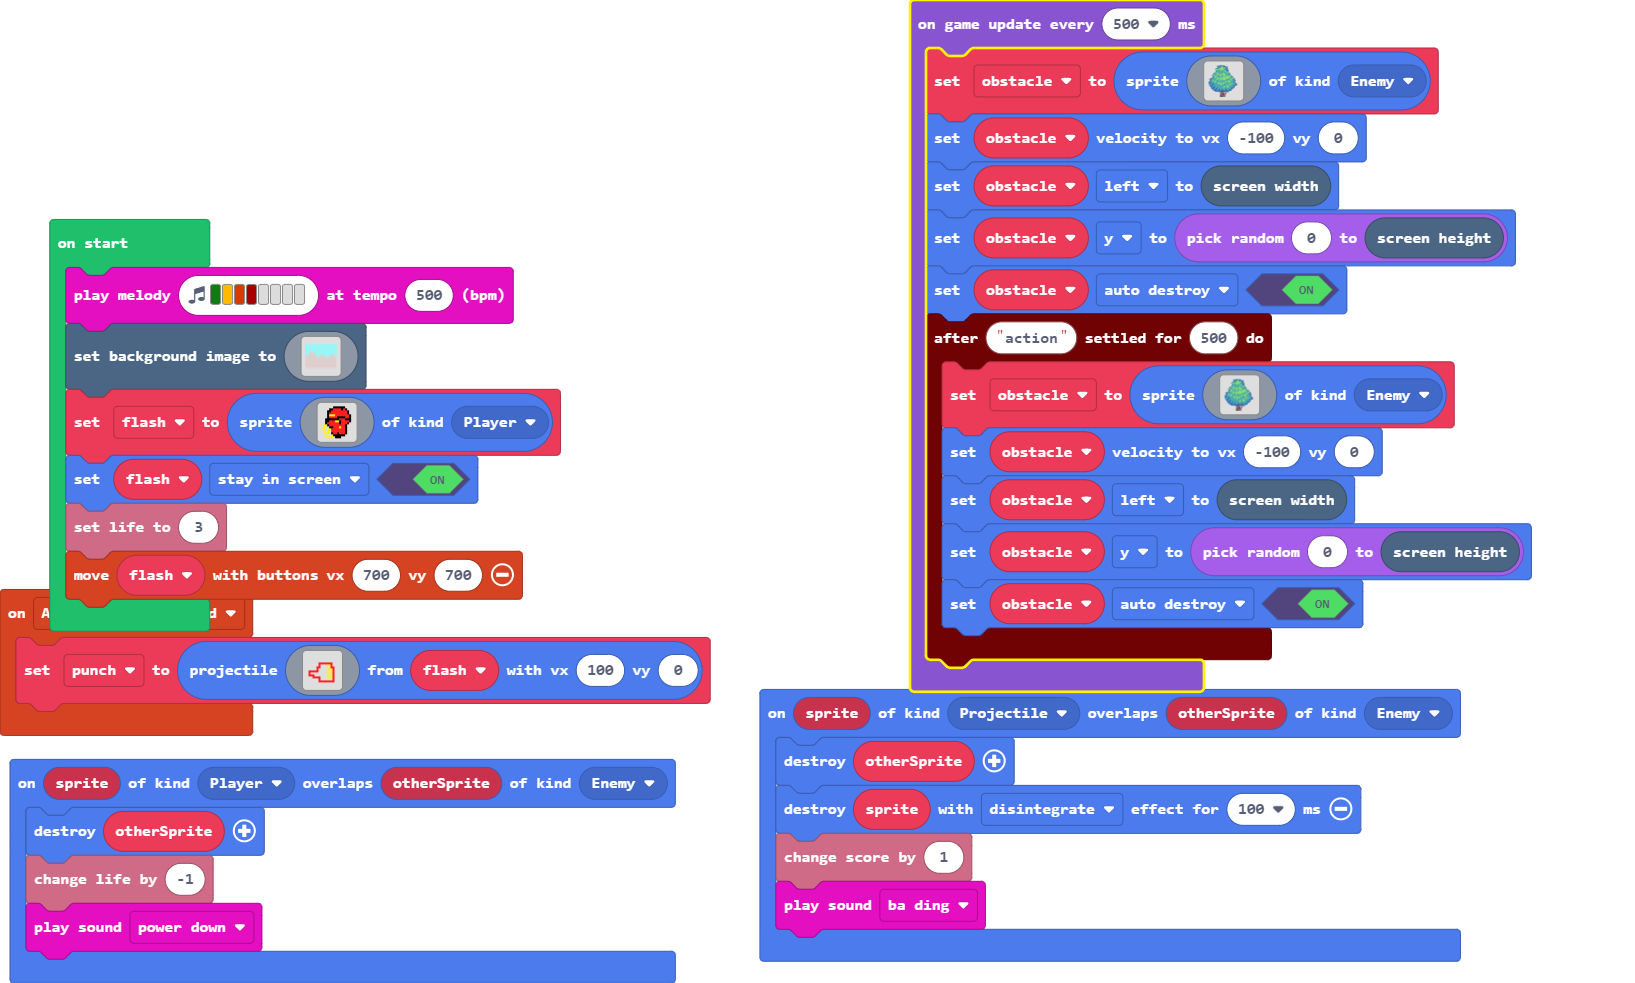
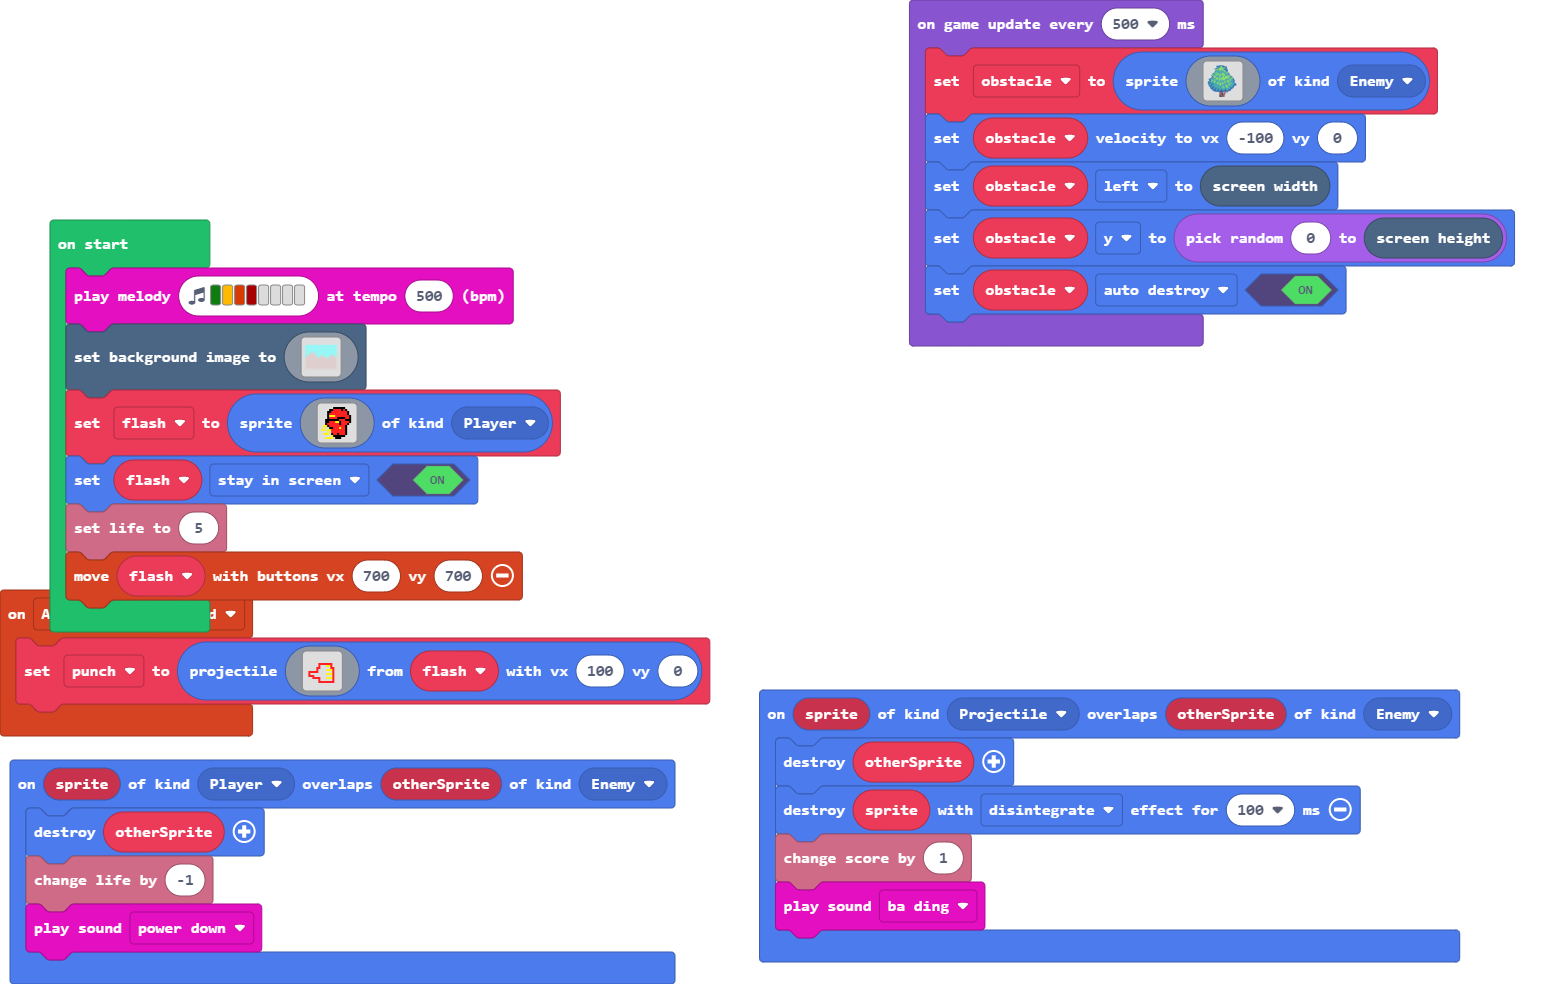
changes life to 5

diff --git a/images.g.ts b/images.g.ts
@@ -534,6 +534,92 @@ dddddddddddddddddddddddddddddddddddddddddddddddddddddddddddddddddddddddddddddddd
 ...............fceeec...............
 ...............ffceec...............
 `;
+            case "image12":return img`
+................86..................
+...........6688867886...............
+...........8666877688868............
+............868777767768............
+.........688667777776688............
+........67767777777778666...........
+.........6776667767666868...........
+..........866667667677688...........
+.........8666666666667778...........
+........667766666666666676..........
+.......67766667666776667776.........
+......886667776676777666688.........
+.....67766777667767777666768........
+....6776666666777667776666776.......
+.....8667776667766676677776776......
+......8777666666667776777776688.....
+....6887766776677677777777776776....
+..8866666677767777777777766666778...
+.86666666777667767777766666776668...
+..88677666666777677677666667776668..
+..86776677666666666666667776666668..
+886666677766667666666776677766668...
+6668666676667766767767766677666668..
+88866666666777677677667666666776668.
+.86668866666766776776666667766666668
+.86688666666666776666667667776666688
+.668866666666666666666677666666688..
+..8866686666666666677667776666668...
+...866886666666666677667776666668...
+...86886668666666667666666666888....
+....88866886686666666666666668......
+......86886668666866668666868.......
+......88866688668866688866888.......
+........8888888688888ce868..........
+..............e88e88.ec.8...........
+...............eeee..e..............
+...............ceef.ce..............
+...............ceefcec..............
+...............feefce...............
+...............fceeec...............
+...............ffceec...............
+`;
+            case "image13":return img`
+................86..................
+...........6688867886...............
+...........8666877688868............
+............868777767768............
+.........688667777776688............
+........67767777777778666...........
+.........6776667767666868...........
+..........866667667677688...........
+.........8666666666667778...........
+........667766666666666676..........
+.......67766667666776667776.........
+......886667776676777666688.........
+.....67766777667767777666768........
+....6776666666777667776666776.......
+.....8667776667766676677776776......
+......8777666666667776777776688.....
+....6887766776677677777777776776....
+..8866666677767777777777766666778...
+.86666666777667767777766666776668...
+..88677666666777677677666667776668..
+..86776677666666666666667776666668..
+886666677766667666666776677766668...
+6668666676667766767767766677666668..
+88866666666777677677667666666776668.
+.86668866666766776776666667766666668
+.86688666666666776666667667776666688
+.668866666666666666666677666666688..
+..8866686666666666677667776666668...
+...866886666666666677667776666668...
+...86886668666666667666666666888....
+....88866886686666666666666668......
+......86886668666866668666868.......
+......88866688668866688866888.......
+........8888888688888ce868..........
+..............e88e88.ec.8...........
+...............eeee..e..............
+...............ceef.ce..............
+...............ceefcec..............
+...............feefce...............
+...............fceeec...............
+...............ffceec...............
+`;
         }
         return null;
     })
